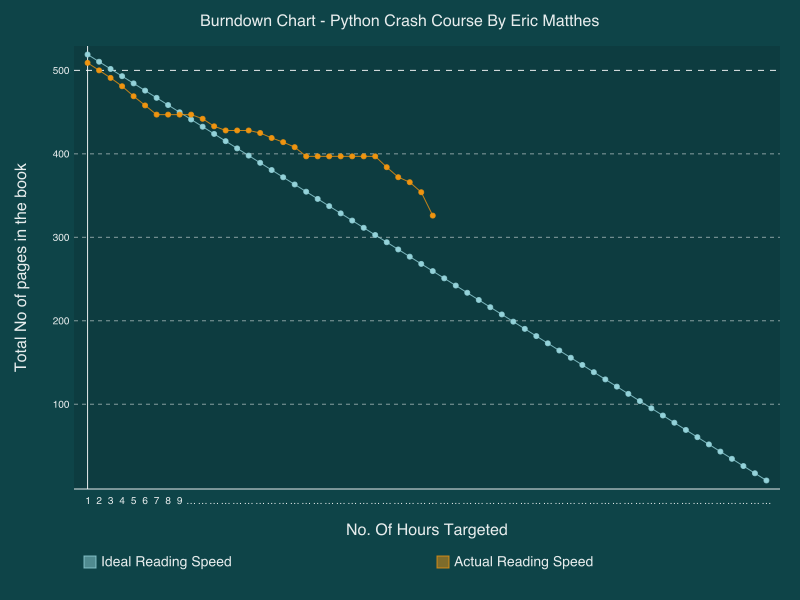
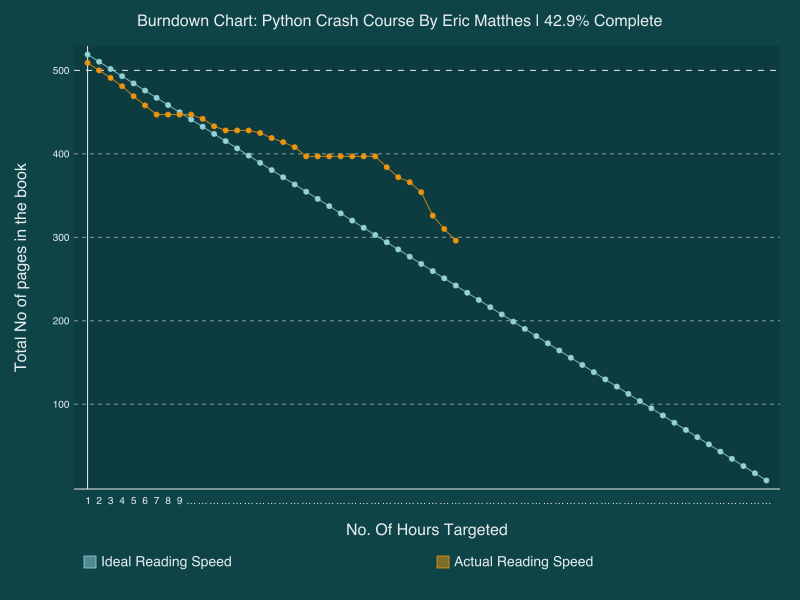
Chapter 10 started

Changed region(s): [[0.1562, 0.0, 0.8438, 0.06], [0.5312, 0.36, 0.5625, 0.39]]

diff --git a/learn.py b/learn.py
@@ -16,9 +16,13 @@ reading_progress = [
     #30 dec
     122,122,122,122,122,122,135,147,153,165,
     #31 dec
-    193
+    193,209,229
     ]
 
+#percentage 
+reading_percentage = reading_progress[-1]/total_pages*100
+reading_percentage = str(reading_percentage)
+reading_percentage =  reading_percentage[:4]
 #helper function to calculate remaining pages
 def getRemainingPages(n):
     return total_pages-n
@@ -28,22 +32,22 @@ burn_down_chart = pygal.Line(
     style=TurquoiseStyle,
     x_title='No. Of Hours Targeted',
     y_title='Total No of pages in the book')
-burn_down_chart.title = 'Burndown Chart - python crash course by eric matthes'.title()
+burn_down_chart.title = 'Burndown Chart: Python Crash Course By Eric Matthes | '+reading_percentage+'% Complete'
 burn_down_chart.x_labels = map(str,range(1,time_span+1))
+
 #ideal reading array
 ideal_reading_array = []
+
 #generate ideal reading array
 for i in range(1,time_span+1):
     current_increment = i*ideal_increment
     ideal_reading_array.append(current_increment) 
+
 #reverse to predict ideal burndown
 ideal_reading_array.reverse()
 burn_down_chart.add("Ideal Reading Speed",ideal_reading_array)
 burn_down_chart.add("Actual Reading Speed",map(getRemainingPages,reading_progress))
 burn_down_chart.render_to_png('burndown.png')
-
-
-
 
 #calculate pages speed
 pages_per_hour = []
@@ -61,7 +65,8 @@ reading_speed = pygal.Line(
     style=TurquoiseStyle,
     x_title='No. Of Hours Targeted',
     y_title='Reading Speed (Pages)')
-reading_speed.title = 'Reading Speed | Average '+average_speed+' pages/hr'
+
+reading_speed.title = 'Reading Speed: Python Crash Course By Eric Matthes | Avg: '+average_speed+' pages/hr'
 reading_speed.x_labels = map(str,range(1,time_span+1))
 reading_speed.add("Pages Per Hour",pages_per_hour)
 reading_speed.render_to_png('reading_speed.png')
